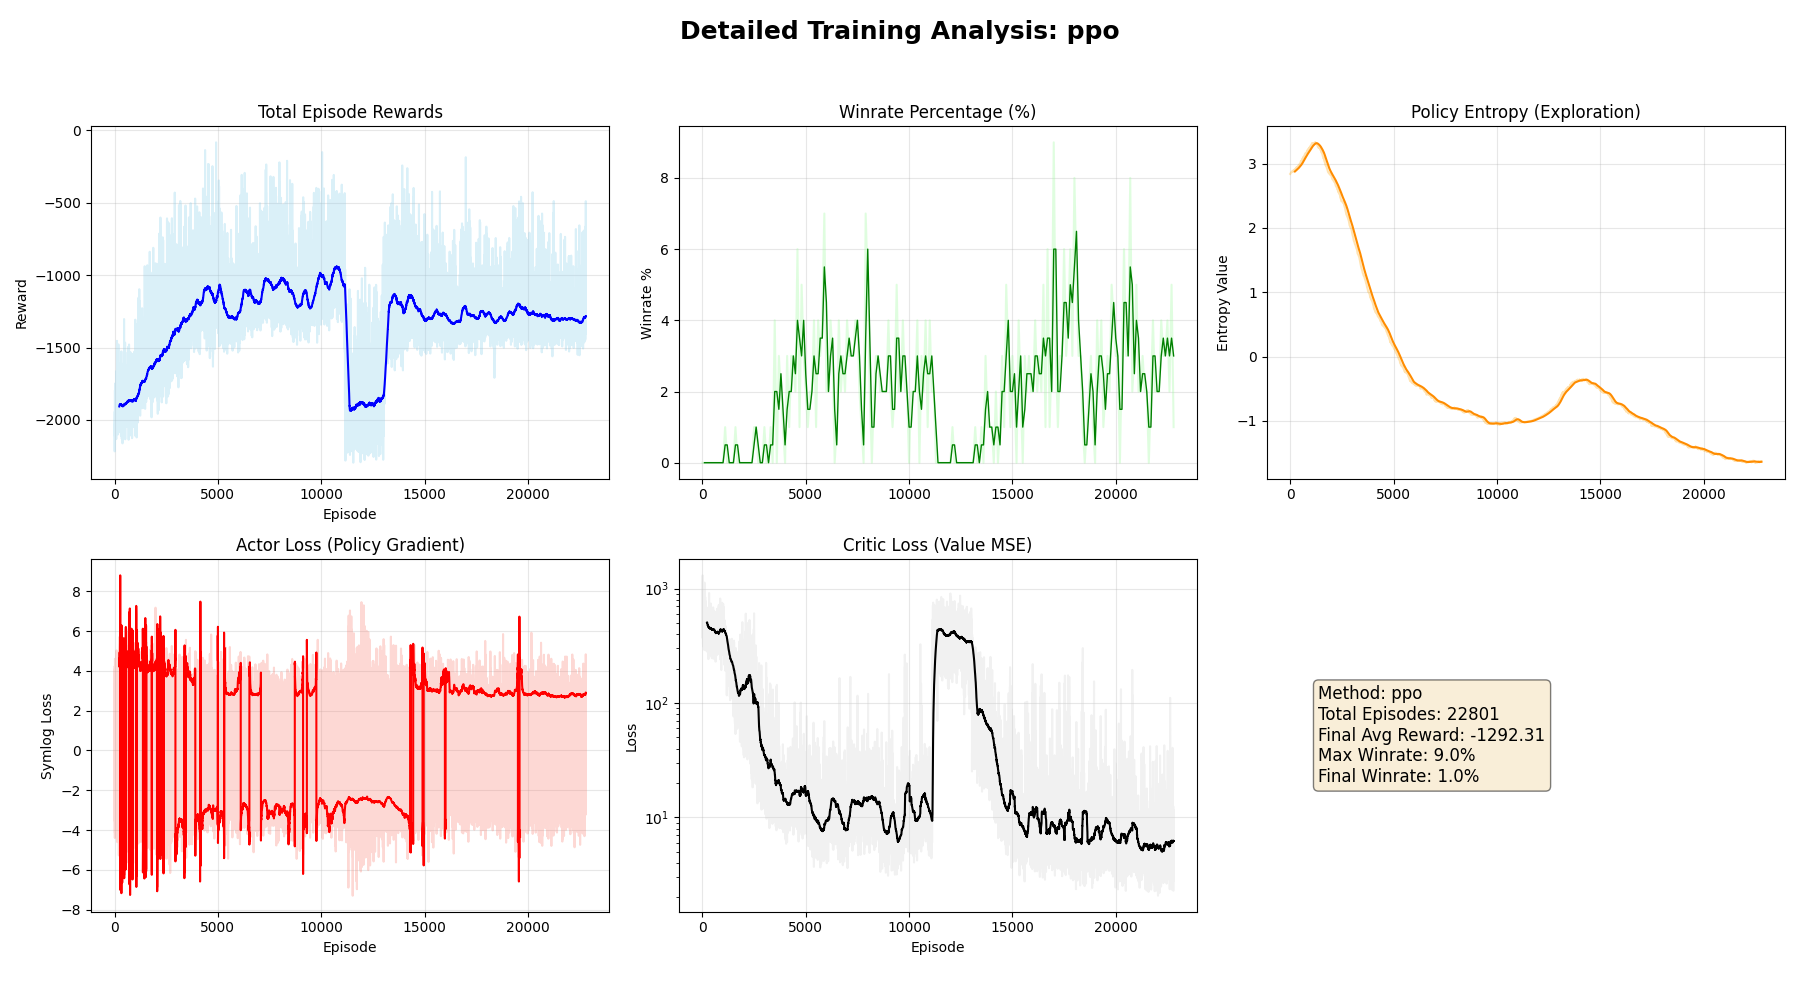
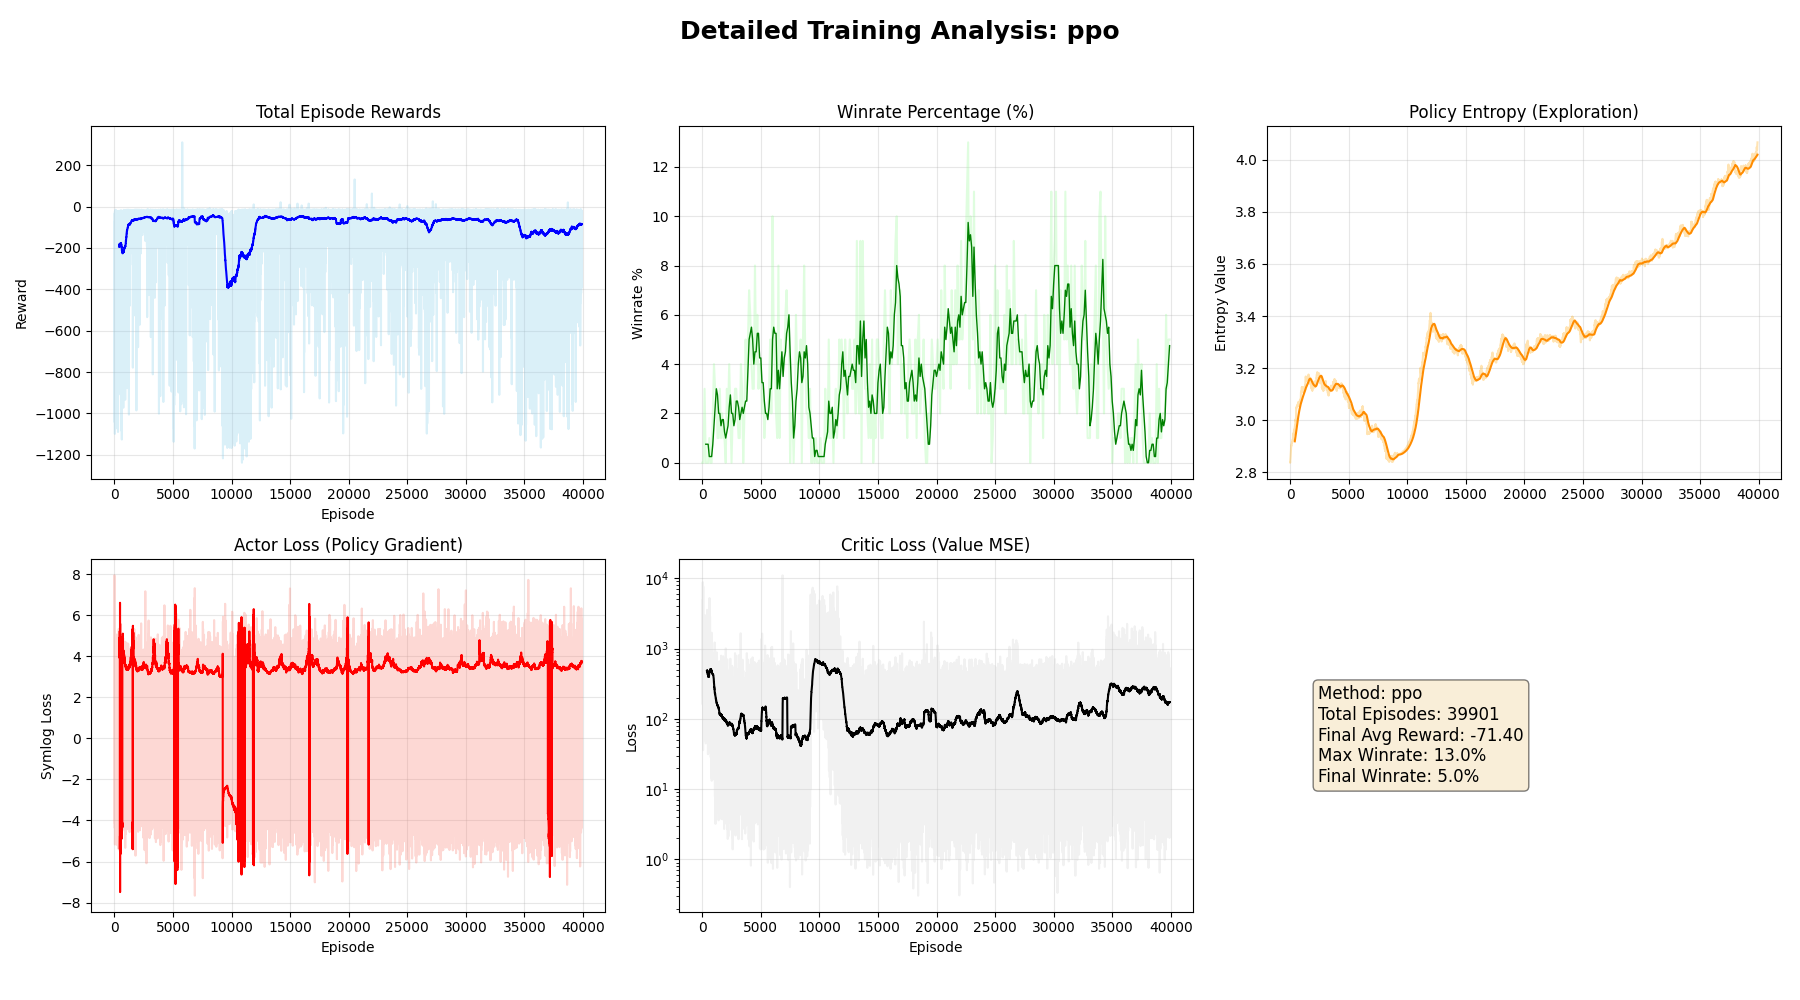
Readme

diff --git a/README.md b/README.md
@@ -86,14 +86,14 @@ $$L_{CLIP}(\theta) = \mathbb{E} [\min(r_t(\theta)A_t, \text{clip}(r_t(\theta), 1
 
 ### Training Metrics
 
-![Episode Rewards](a2c_metrics_reward.png)
-*Figure 1: Уpisode rewards over time.*
+![a2c_shared](a2c_detailed.png)
+*Figure 1: A2C_shared metrics over time.*
 
-![Winrate vs Epochs](a2c_metrics_winrate.png)
-*Figure 2: Winrate percentage evaluated at fixed epoch intervals.*
+![a2c_separate](a2c_separate_detailed.png)
+*Figure 2: A2C_separate metrics over time.*
 
-![Actor and Critic Loss](a2c_metrics_loss.png)
-*Figure 3: Critic Loss dynamics.*
+![ppo](ppo_detailed.png)
+*Figure 3: PPO metrics over time.*
 
 ### Conclusion
-Actor-Critic with CNN reached the acceptable performance over limited training time, other architectures didn't provide results better than starting ones. So, further comparison of all architectures can be done.
+Actor-Critic with CNN reached the acceptable performance over limited training time, other architectures didn't provide meaningful results. So, further comparison of all architectures can be done.
